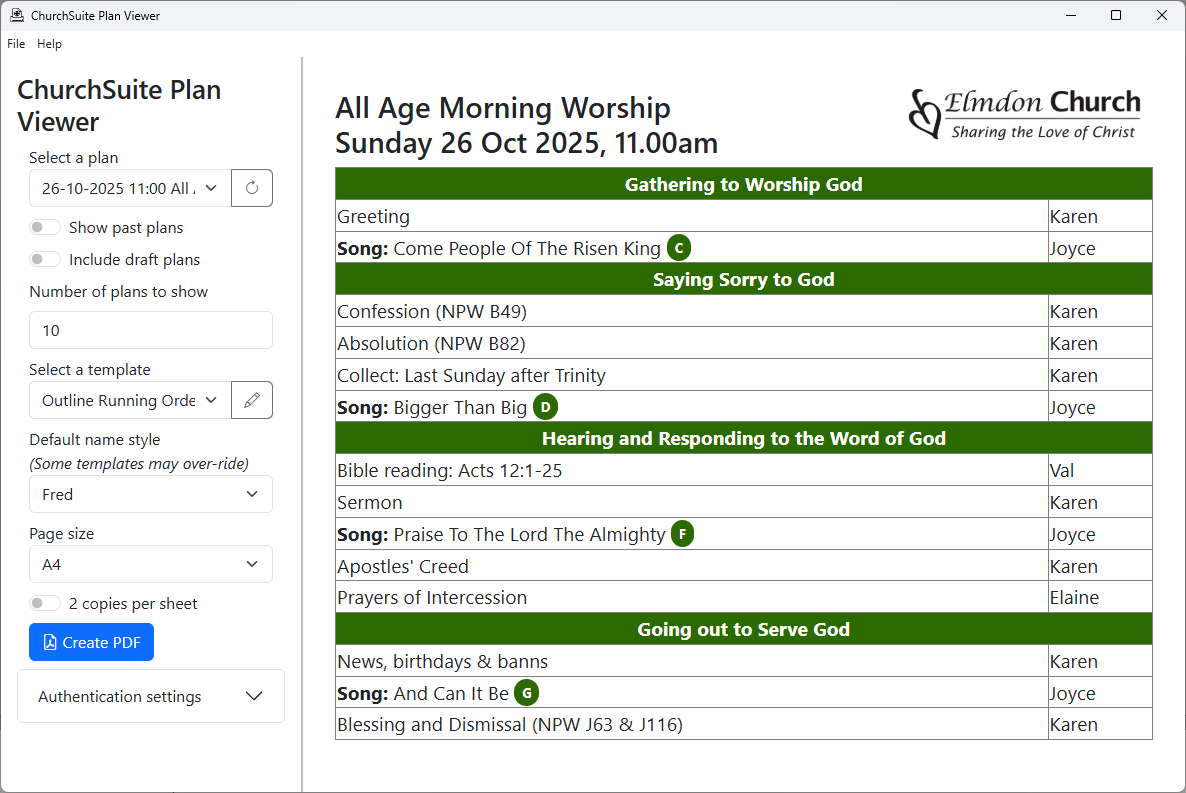
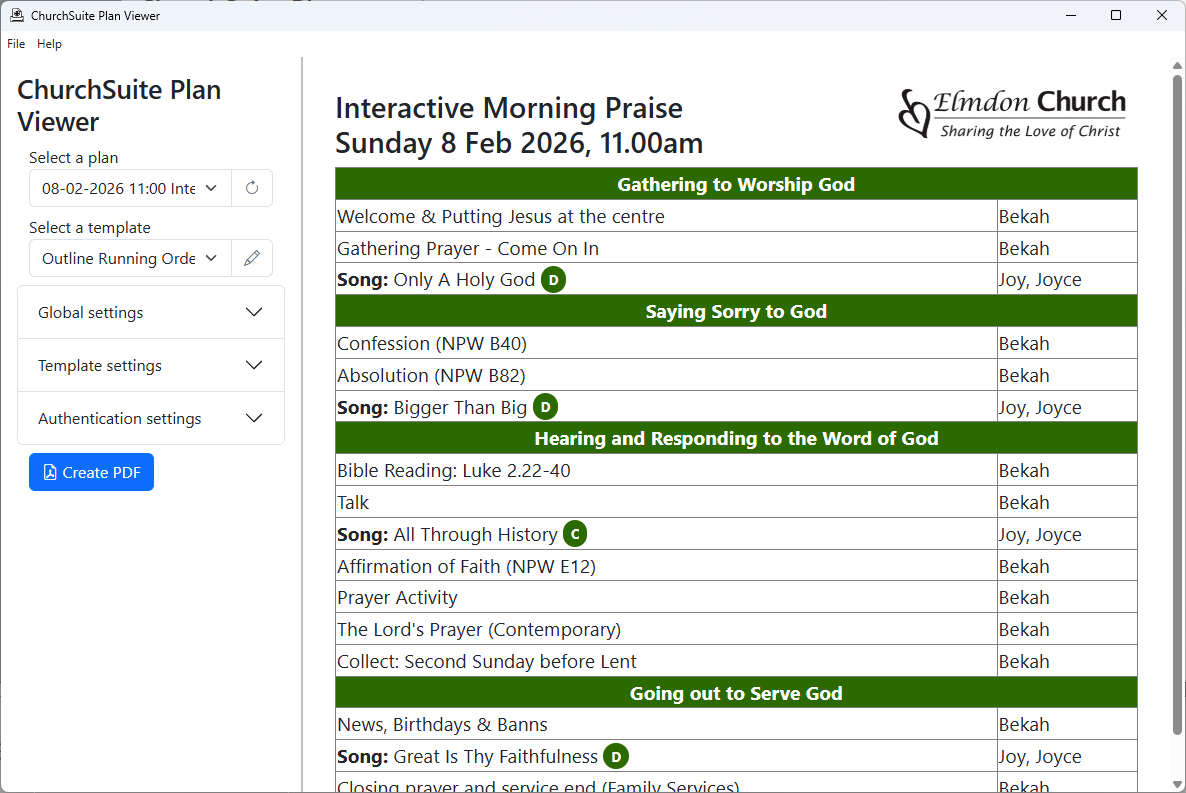
Doc updates for upcoming version 1.3

diff --git a/docs/usage.md b/docs/usage.md
@@ -27,15 +27,21 @@ The first set of controls will help you to find and select the plan you want to 
 
 ![The controls to select a plan](assets/images/usage2.png)
 
-By default, the **Select a plan** drop-down (1 in the screenshot above) will let you choose from among the next (up to) 10 upcoming published plans.
+By default, the **Select a plan** drop-down (1 in the screenshot above) will let you choose
+from among the next (up to) 10 upcoming published plans.
 
-Next to it is the **Refresh** button (2 in the screenshot) which will reload the list of plans from ChurchSuite, and reload the selected plan, picking up any changes you have made within ChurchSuite.
+Next to it is the **Refresh** button (2 in the screenshot) which will reload the list of
+plans from ChurchSuite, and reload the selected plan, picking up any changes you have made
+within ChurchSuite.
 
-You can change which plans are shown using the other controls:
+You can change which plans are shown using other controls which are accessed by clicking on
+the **Global settings** heading (3 in the screenshot), with the following additional options becoming available:
 
-* **Show past plans** (3)
-* **Include draft plans** (4), and
-* **Number of plans to show** (5).
+* **Show past plans** (4)
+* **Include draft plans** (5), and
+* **Number of plans to show** (6).
+
+![Further controls to help select a plan](assets/images/usage3.png)
 
 ### Selecting a template
 
@@ -43,23 +49,32 @@ The next important control is the **Select a template** drop-down.
 
 ![The controls to select a template](assets/images/usage4.png)
 
-The **Select a template** drop-down (6 in the screenshot above) will let you choose a template to view your service plan.
-ChurchSuite Plan Viewer comes with two templates out-of-the-box:
+The **Select a template** drop-down (7 in the screenshot above) will let you choose a template
+to view your service plan. ChurchSuite Plan Viewer comes with three templates out-of-the-box:
 
 * **Outline Running Order** simply displays the name of each item in your plan, and the people associated with it
 * **Full Service Order** displays much fuller details of your plan, including the text of any liturgy and prayers.
+* **Song Lyrics** displays the lyrics of each song in your plan, and is intended to be useful for any church members
+  who find it difficult to read these off projector screens.
 
-Next to the drop-down, the **Edit templates** button (7 in the screenhot) launches the [template editor](editor.md).
+Next to the drop-down, the **Edit templates** button (8 in the screenhot) launches the [template editor](editor.md).
 
 ### Additional options
 
-Next come some further options to refine the program's output. The **Default name style** drop-down lets you choose how
-you would like names to be displayed next to service items:
+Within the **Template Settings** section are some further options to refine the program's output.
 
-![Choosing how to display names](assets/images/usage5.png)
+![Opeions available within Template Settings](assets/images/usage5.png)
 
-Finally, you can choose the output page size, select whether you would like two copies per sheet (we use this to create
-A5 orders of service using the "outline running order" template), and then click the **Create PDF** button to save
-and open a PDF file showing the selected service, using your chosen template and other options.
+The **Default name style** drop-down lets you choose how you would like names to be displayed next to service items:
 
-![Selecting page size, 2-up options, and creating PDF](assets/images/usage6.png)
+![Choosing how to display names](assets/images/usage6.png)
+
+The **Show song lyrics** option does not apply to all templates - it would not make sense to include this with the
+**Outline Running Order** template, for example.
+
+You can choose the base font size, the output page size, select whether you would like two copies per sheet (we use this to create
+A5 orders of service using the "outline running order" template), and whether page numbers should be included.
+
+Then click the **Create PDF** button to save and open a PDF file showing the selected service, using your chosen template and other options.
+
+![Selecting page size, 2-up options, and creating PDF](assets/images/usage7.png)

diff --git a/docs/editor.md b/docs/editor.md
@@ -53,6 +53,11 @@ There are three top-level objects:
   * `plan.items` is an array of objects, each representing an item in the service plan as a
     [PlanItem model](https://developer.churchsuite.com/planning#model/planitem) with one addition, the `date_time` property which
     represents the plan item's start date and time as a JavaScript Date object.
+  * If **Show song lyrics** is selected, and a service item represents a song, the item will additionally have an `arrangement` property
+    which is a [SongArrangement model](https://developer.churchsuite.com/planning#model/songarrangement), and a `song` property which
+    is a [Song model](https://developer.churchsuite.com/planning#model/song). The `arrangement` property is in turn augmented with a
+    `stanzas` property which is an array of objects, each representing a stanza of the song chart. Each stanza has a `name` property
+    (e.g. `Verse 1`, and an array of strings representing the lines of that stanza.)
 * `brand` represents your account's default branding as a [Brand model](https://developer.churchsuite.com/account#model/brand),
   allowing you to display your logo and use the default brand colour. In addition, a `logo.data_url` property is added giving your
   logo as a data: URL for easier display within your template.
@@ -79,6 +84,8 @@ In addition to the standard LiquidJS [tags](https://liquidjs.com/tags/overview.h
 * `markdown`, which converts Markdown text (using the [CommonMark specification](https://spec.commonmark.org/0.31.2/)) to HTML
 * `personName`, which takes a person and formats their name according to the user's chosen **Default name style** setting.
 * `songKey`, which takes a song item and displays the song's key.
+* `songCredits`, which takes a song item and displays its copyright information, including your CCLI Licence number if configured
+  in the global settings.
 
 Examples of using all of these can be found in the default templates.
 

diff --git a/docs/churchsuite.md b/docs/churchsuite.md
@@ -57,8 +57,3 @@ would be shown by the "Outline Running Order" template like this:
 ![Snippet from service plan](assets/images/churchsuite7.png)
 
 Display of other types of plan item note is an obvious enhancement for the future, but is not yet supported.
-
-### Song lyrics
-
-Unfortunately the ChurchSuite API does not yet support retrieval of song lyrics - this is an
-obvious thing to add to this program, once that enhancement is possible.
